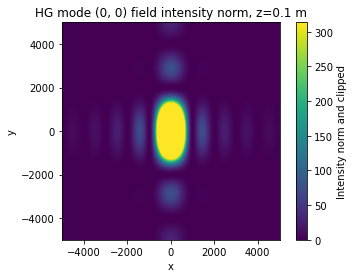
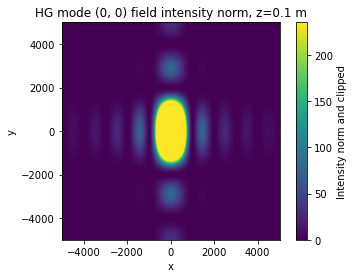
diffraction slit image

diff --git a/BeamMode_propagation/propagation_methods.py b/BeamMode_propagation/propagation_methods.py
@@ -190,7 +190,7 @@ class PropagationMethods():
         if plot_type == 'Intensity norm':
             plt.figure()
             field_intensity = (abs(self.S_shift))**2//np.max(abs(self.S_shift))
-            max_val = np.max(field_intensity)*0.2
+            max_val = np.max(field_intensity)*0.15
             plt.imshow(field_intensity,extent=[np.min(X), np.max(X), np.min(Y), np.max(Y)], 
                        vmax=max_val)
             plt.colorbar(label='Intensity norm and clipped')

diff --git a/OpticalElements/readme.md b/OpticalElements/readme.md
@@ -37,3 +37,8 @@ An example of the inputs required in a .txt file is shown in the following:
 ### Diffraction from rectangular slit (100 um x 50 um) after a propagation of 10 cm
 
 ![Alt text](./Example/rectangular_slit_diffraction.png)
+
+### Diffraction from circular slit (100 um) after a propagation of 10 cm
+
+![Alt text](./Example/circular_slit_diffraction.png)
+
